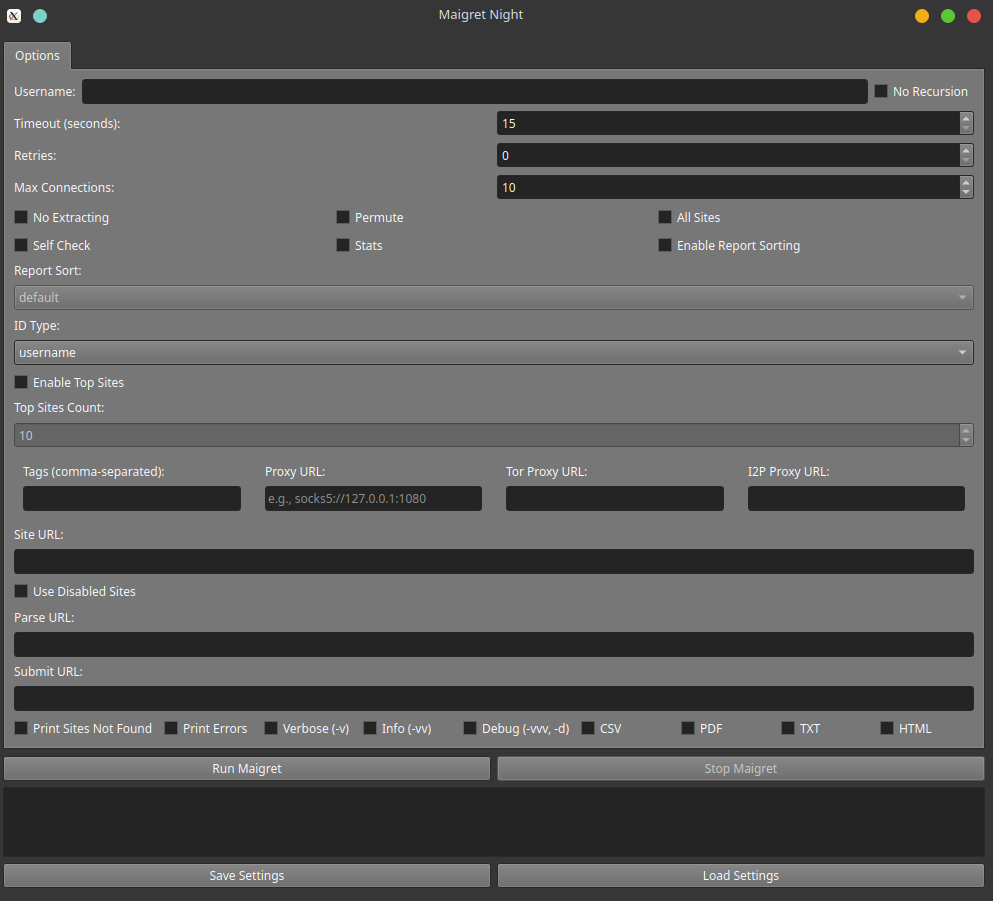
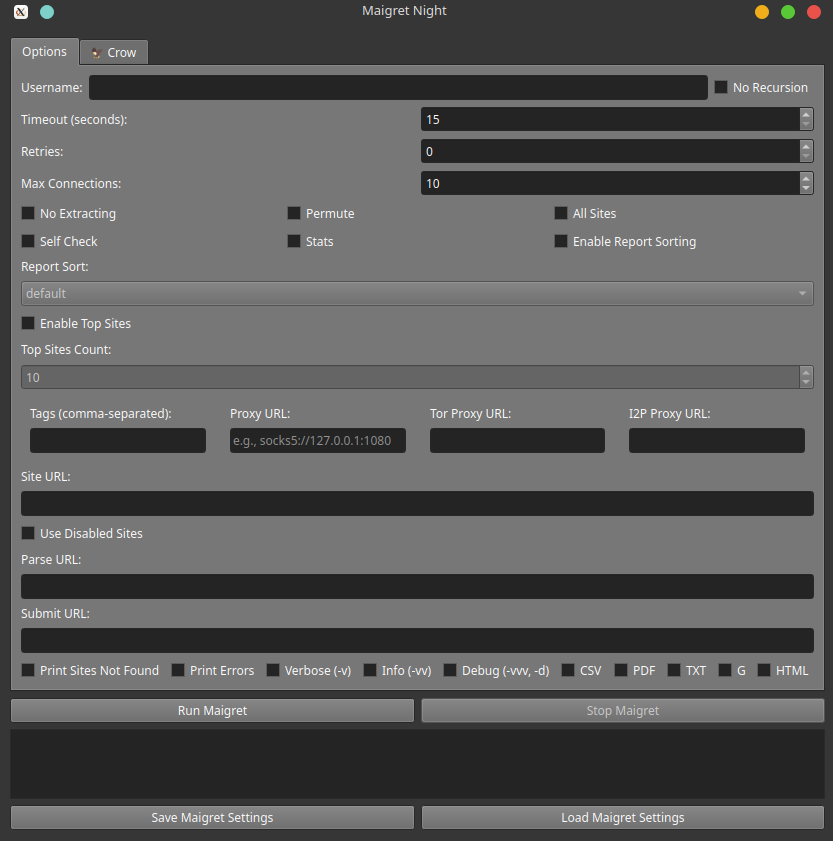
pip requirements.txt

diff --git a/README.md b/README.md
@@ -11,4 +11,12 @@ A GUI edition of the OSINT tool maigret, Full info can be [found here](https://g
 ![image](./img/2025-12-15_00-06.png)
 
 
-For blackbird you'll need to install it inside this dir and it'll work.
+For blackbird (crow) you'll need to install it (git clone) inside this dir and it'll work.
+
+For crow:
+
+```
+pip install -r requirements_GUI.txt && pip install -r requirements.txt
+```
+
+Read blackbirds git [here](https://github.com/p1ngul1n0/blackbird)
